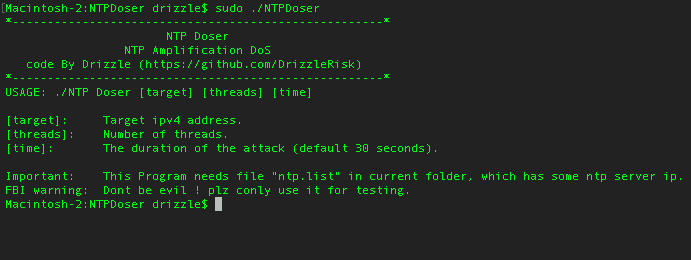
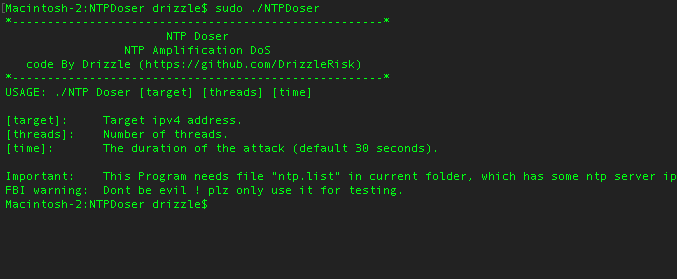
update

diff --git a/NTPDoser.cpp b/NTPDoser.cpp
@@ -315,7 +315,7 @@ int main(int argc, char* argv[])
     printf("[threads]:    Number of threads.\n");
     printf("[time]:       The duration of the attack (default 30 seconds).\n\n");
     printf("Important:    This Program needs file \"ntp.list\" in current folder, which has some ntp server ip.\n");
-    printf("FBI warning:  Dont be evil ! plz conly use it for testing.\n");
+    printf("FBI warning:  Dont be evil ! plz only use it for testing.\n");
     return 0;
   }
   if(argc >= 4)
